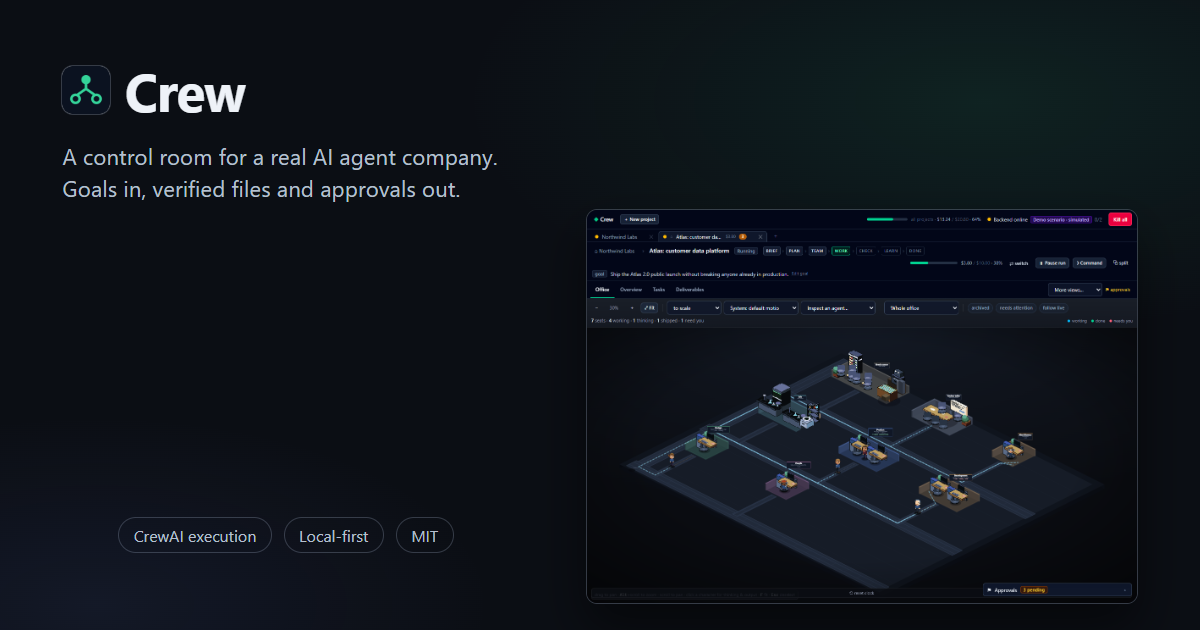
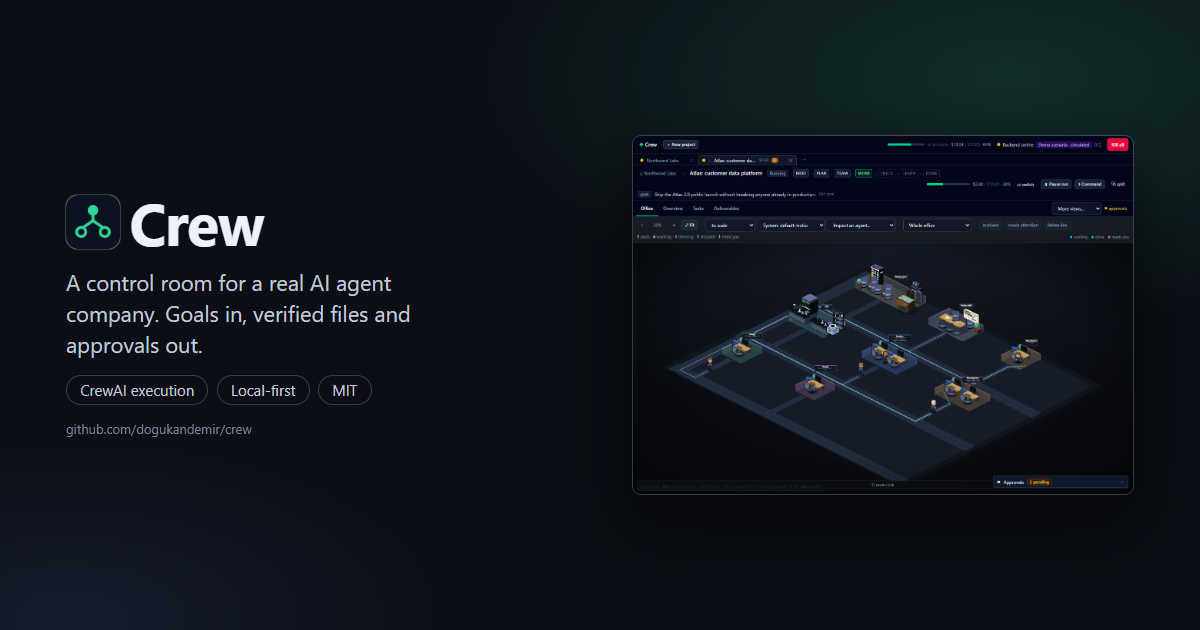
Give the preview cards one axis instead of a top-left corner
The card put the mark and title in the top-left, the tagline under it, and the
product shot in the bottom-right corner, so the middle of the card was empty and
the words read as parked in a corner.

Both columns are now centred on the same axis: words left, product right, with
the shot scaled to the column so it fills the right half. Every size is in
viewport units, so the 1280x640 social card and the 1200x630 Open Graph card
come out of the same file with the same proportions. The tagline carries the
repository address under the pills.

Re-rendered from site/og.html after the change (Emulation.setDeviceMetricsOverride
on the same tab, after navigating), checked at both sizes:
site/assets/social-preview.png 1280x640, site/assets/og-image.png 1200x630.

diff --git a/site/og.html b/site/og.html
@@ -9,41 +9,56 @@
   body {
     font-family: -apple-system, BlinkMacSystemFont, "Segoe UI", Roboto, sans-serif;
     color: #eef2f8;
-    display: flex;
-    flex-direction: column;
     position: relative;
-    padding: 4.6% 5.2% 4.2%;
   }
   .bg { position: absolute; inset: 0; background:
-    radial-gradient(70% 60% at 82% 16%, rgba(52, 211, 153, 0.10), transparent 62%),
-    radial-gradient(55% 50% at 8% 96%, rgba(94, 116, 210, 0.10), transparent 60%),
+    radial-gradient(72% 62% at 84% 12%, rgba(52, 211, 153, 0.16), transparent 64%),
+    radial-gradient(55% 50% at 6% 98%, rgba(94, 116, 210, 0.12), transparent 60%),
     #0b0e14; }
-  .wrap { position: relative; display: flex; flex-direction: column; height: 100%; }
-  .brand { display: flex; align-items: center; gap: 0.9rem; }
-  .mark { width: 3rem; height: 3rem; border-radius: 0.7rem; box-shadow: 0 0 0 1px rgba(148,163,184,0.3); }
-  h1 { font-size: 3.3rem; letter-spacing: -0.02em; }
-  .sub { margin-top: 1rem; font-size: 1.4rem; line-height: 1.4; color: #b6c0cf; max-width: 46%; }
-  .shot { position: absolute; right: 5.2%; bottom: 4.2%; width: 46%; border-radius: 0.7rem;
-          border: 1px solid rgba(148,163,184,0.3); box-shadow: 0 24px 48px rgba(0,0,0,0.5); }
-  .foot { position: absolute; left: 5.2%; bottom: 5%; display: flex; gap: 0.75rem; align-items: center;
-          color: #7d8798; font-size: 1rem; }
-  .pill { border: 1px solid rgba(148,163,184,0.3); border-radius: 999px; padding: 0.42rem 0.9rem; color: #b6c0cf; }
+  /* Two columns centred on one axis: the words left, the product right. Everything is
+     sized in viewport units so the 1280x640 card and the 1200x630 card come out of the
+     same file with the same proportions and no dead middle. */
+  .wrap {
+    position: relative;
+    height: 100%;
+    display: grid;
+    grid-template-columns: minmax(0, 1fr) 47%;
+    align-items: center;
+    gap: 3.2vw;
+    padding: 4.6% 5.5%;
+  }
+  .lede { display: flex; flex-direction: column; gap: 2.4vh; }
+  .brand { display: flex; align-items: center; gap: 0.8vw; }
+  .mark { width: 4.5vw; height: 4.5vw; border-radius: 1vw;
+          box-shadow: 0 0 0 1px rgba(148,163,184,0.3); }
+  h1 { font-size: 4.9vw; letter-spacing: -0.02em; line-height: 1; }
+  .sub { font-size: 1.82vw; line-height: 1.42; color: #c3ccd9; max-width: 34ch; }
+  .foot { display: flex; gap: 0.7vw; align-items: center; flex-wrap: wrap; }
+  .pill { border: 1px solid rgba(148,163,184,0.32); border-radius: 999px;
+          padding: 0.7vh 1.1vw; color: #c3ccd9; font-size: 1.24vw; }
+  .where { color: #7d8798; font-size: 1.06vw; letter-spacing: 0.01em; }
+  .shot { width: 100%; display: block; border-radius: 0.8vw;
+          border: 1px solid rgba(148,163,184,0.3);
+          box-shadow: 0 28px 56px rgba(0,0,0,0.55); }
 </style>
 </head>
 <body>
   <div class="bg"></div>
   <div class="wrap">
-    <div class="brand">
-      <img class="mark" src="assets/icon-256.png" alt="">
-      <h1>Crew</h1>
+    <div class="lede">
+      <div class="brand">
+        <img class="mark" src="assets/icon-256.png" alt="">
+        <h1>Crew</h1>
+      </div>
+      <p class="sub">A control room for a real AI agent company. Goals in, verified files and approvals out.</p>
+      <div class="foot">
+        <span class="pill">CrewAI execution</span>
+        <span class="pill">Local-first</span>
+        <span class="pill">MIT</span>
+      </div>
+      <div class="where">github.com/dogukandemir/crew</div>
     </div>
-    <p class="sub">A control room for a real AI agent company. Goals in, verified files and approvals out.</p>
-    <div class="foot">
-      <span class="pill">CrewAI execution</span>
-      <span class="pill">Local-first</span>
-      <span class="pill">MIT</span>
-    </div>
+    <img class="shot" src="assets/office.png" alt="">
   </div>
-  <img class="shot" src="assets/office.png" alt="">
 </body>
 </html>
